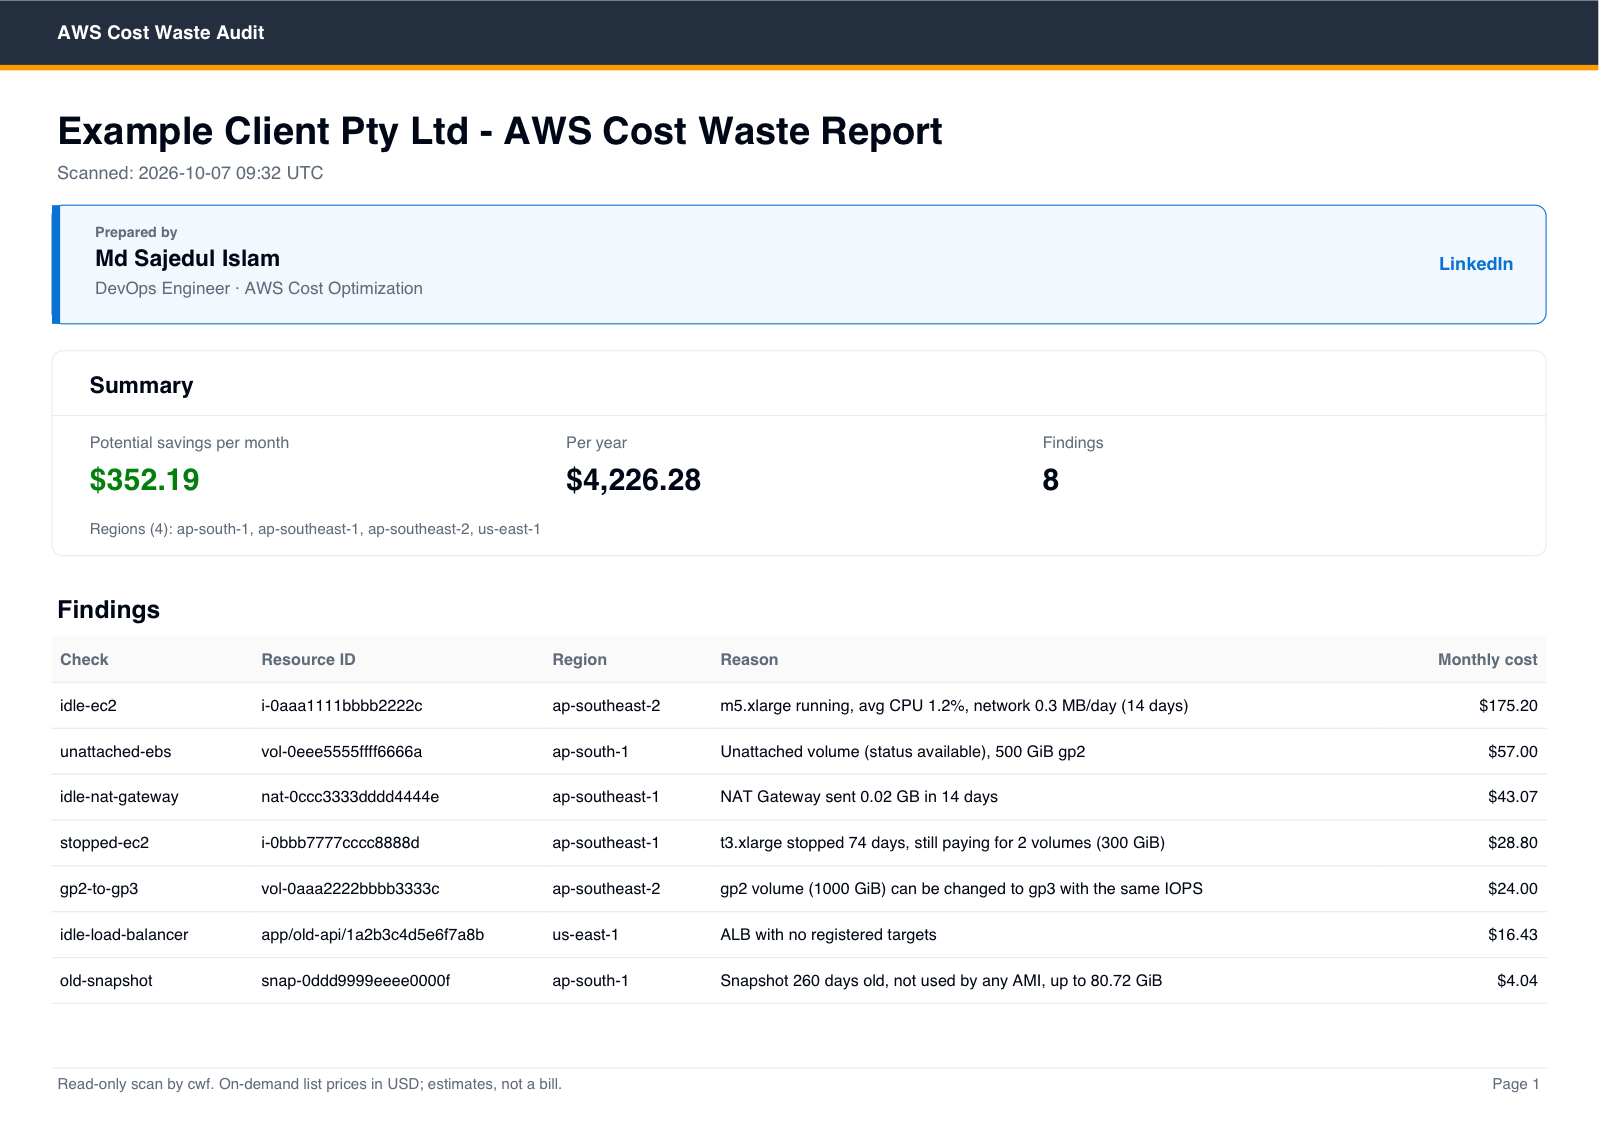
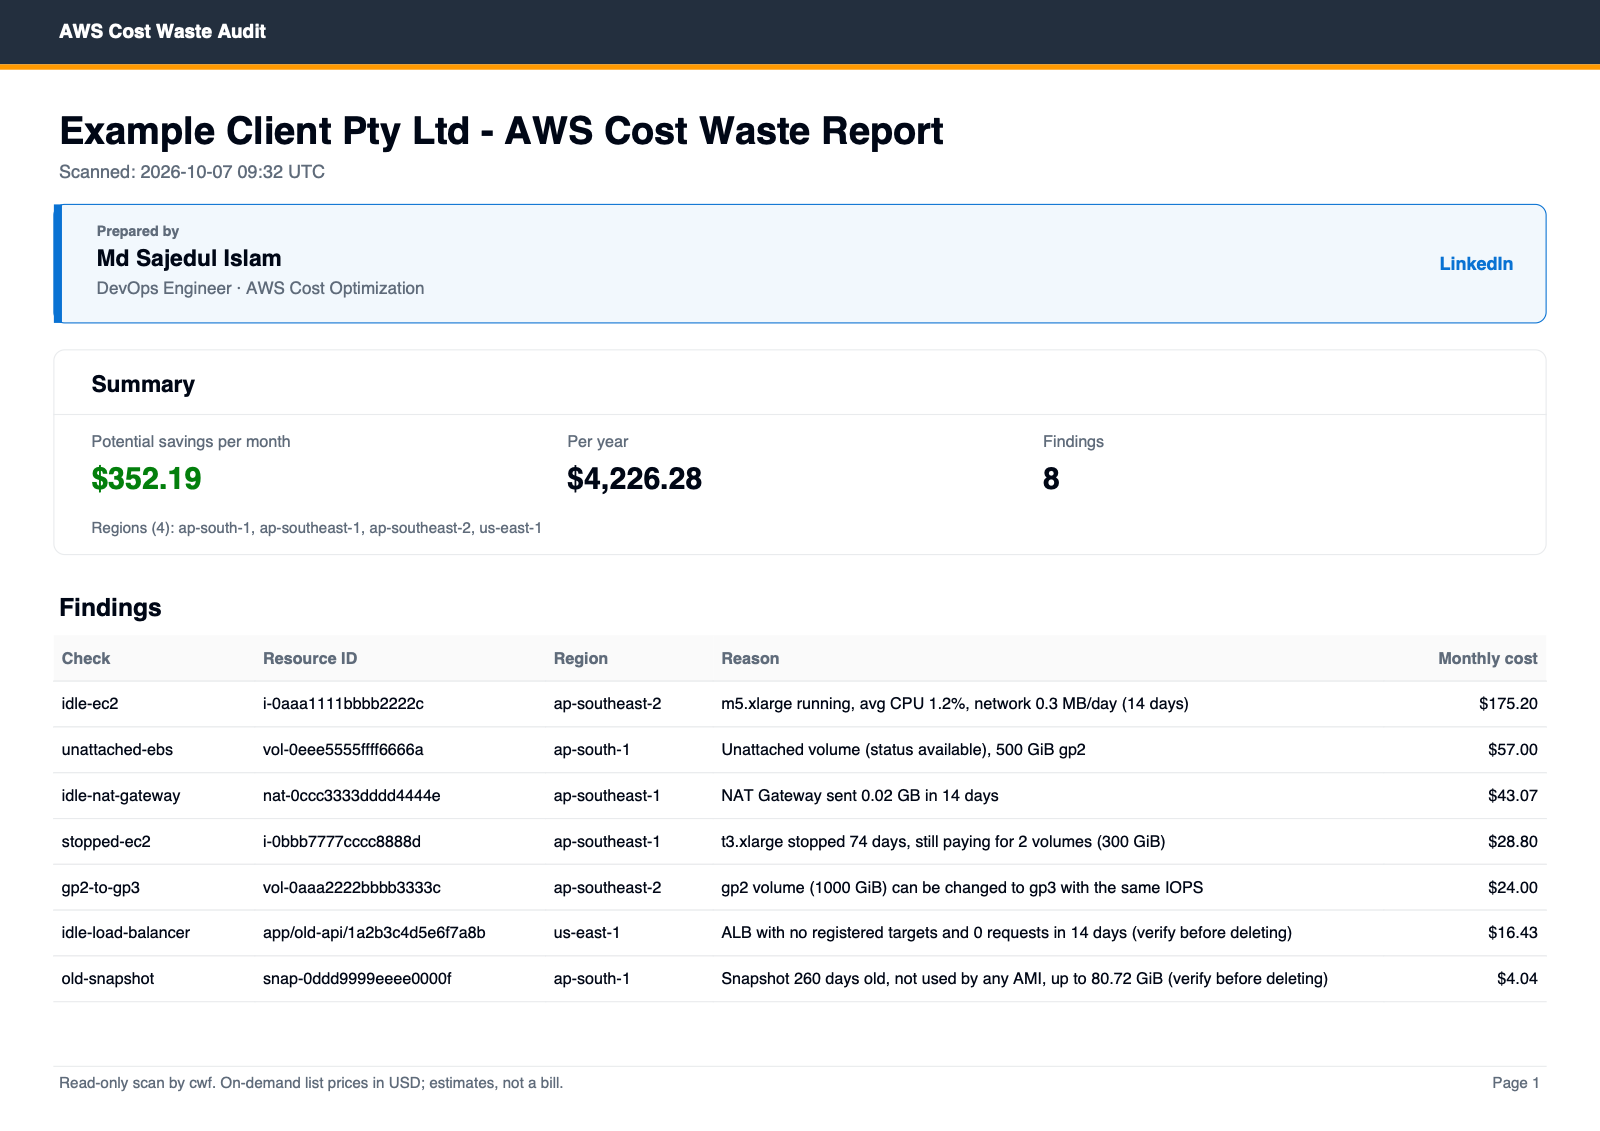
docs: update README and samples for v0.2.0

diff --git a/src/cost_waste_finder/__init__.py b/src/cost_waste_finder/__init__.py
@@ -1,3 +1,3 @@
 """Find wasted AWS spend with read-only API calls."""
 
-__version__ = "0.1.0"
+__version__ = "0.2.0"

diff --git a/README.md b/README.md
@@ -34,16 +34,17 @@ free, without giving a vendor admin access to their account.
 | Check | What it finds | Typical saving |
 |---|---|---|
 | `unattached-ebs` | Disks not attached to any server | The full disk price (e.g. 500 GiB gp2 ≈ $57/month) |
-| `old-snapshot` | Backups older than 90 days that no server image uses | $0.05 per GB per month |
+| `old-snapshot` | Backups older than 90 days that no server image uses (AWS Backup and DLM backups are skipped) | $0.05 per GB per month |
 | `unattached-eip` | Public IP addresses not in use | $3.65/month each |
 | `gp2-to-gp3` | Disks on the older gp2 type | About 20% of the disk price, no downtime |
 | `idle-ec2` | Servers running but doing nothing (CPU < 5%, almost no network, 14 days) | The full server price |
 | `idle-nat-gateway` | NAT Gateways with almost no traffic | About $33–43/month each |
-| `idle-load-balancer` | Load balancers with no targets or almost no requests | About $16–20/month each |
+| `idle-load-balancer` | Load balancers with almost no requests (with or without targets) | About $16–20/month each |
 | `stopped-ec2` | Servers stopped for more than 30 days that still pay for their disks | The disk price |
 
 Every region enabled in the account is scanned. Prices come from the AWS Pricing API for each region.
-All thresholds (14 days, 5% CPU, 90 days…) can be changed.
+Each dollar is counted once: a gp2 disk on a long-stopped server is in `stopped-ec2` only, not also in
+`gp2-to-gp3`. All thresholds (14 days, 5% CPU, 90 days…) can be changed.
 
 ## Sample report (PDF)
 
@@ -97,7 +98,7 @@ Keep this file private. It stays on your computer; it is never put inside the Do
 ### 4. Pull and run
 
 ```sh
-docker pull sajedul5/aws-cost-waste-finder:latest
+docker pull sajedul5/aws-cost-waste-finder:latest   # or a fixed version, e.g. :0.2.0
 docker run --rm --env-file .env -p 127.0.0.1:8080:8080 sajedul5/aws-cost-waste-finder web --host 0.0.0.0
 ```
 
@@ -158,6 +159,8 @@ can use, with an external ID. You then run `--role-arn arn:aws:iam::<CLIENT-ID>:
 - **Your keys stay with you.** Passed at run time from `.env`; never written to the image, the repo
   or the report. The web page only listens on your own computer (`127.0.0.1`).
 - **No account IDs or ARNs** in the reports.
+- **Pinned dependencies.** The Docker image installs hash-checked versions from `requirements.lock`,
+  and CI actions are pinned to commit SHAs.
 
 ## How it works
 
@@ -181,6 +184,10 @@ The diagram source is [`docs/architecture.drawio`](docs/architecture.drawio) (op
 - Data-transfer and request charges (NAT data, load balancer LCUs) are not counted, so real savings
   are often **higher**.
 - The tool finds waste; it does not fix it. Check with the owner before deleting anything.
+  Idle load balancers and old snapshots are marked **"verify before deleting"**: they are based on
+  traffic or age, and a wrong delete hurts most there.
+- If one region can't be reached or a permission is missing, that check is skipped with a warning
+  and the rest of the report is still produced.
 - AWS China and GovCloud are not supported.
 
 ## Development
